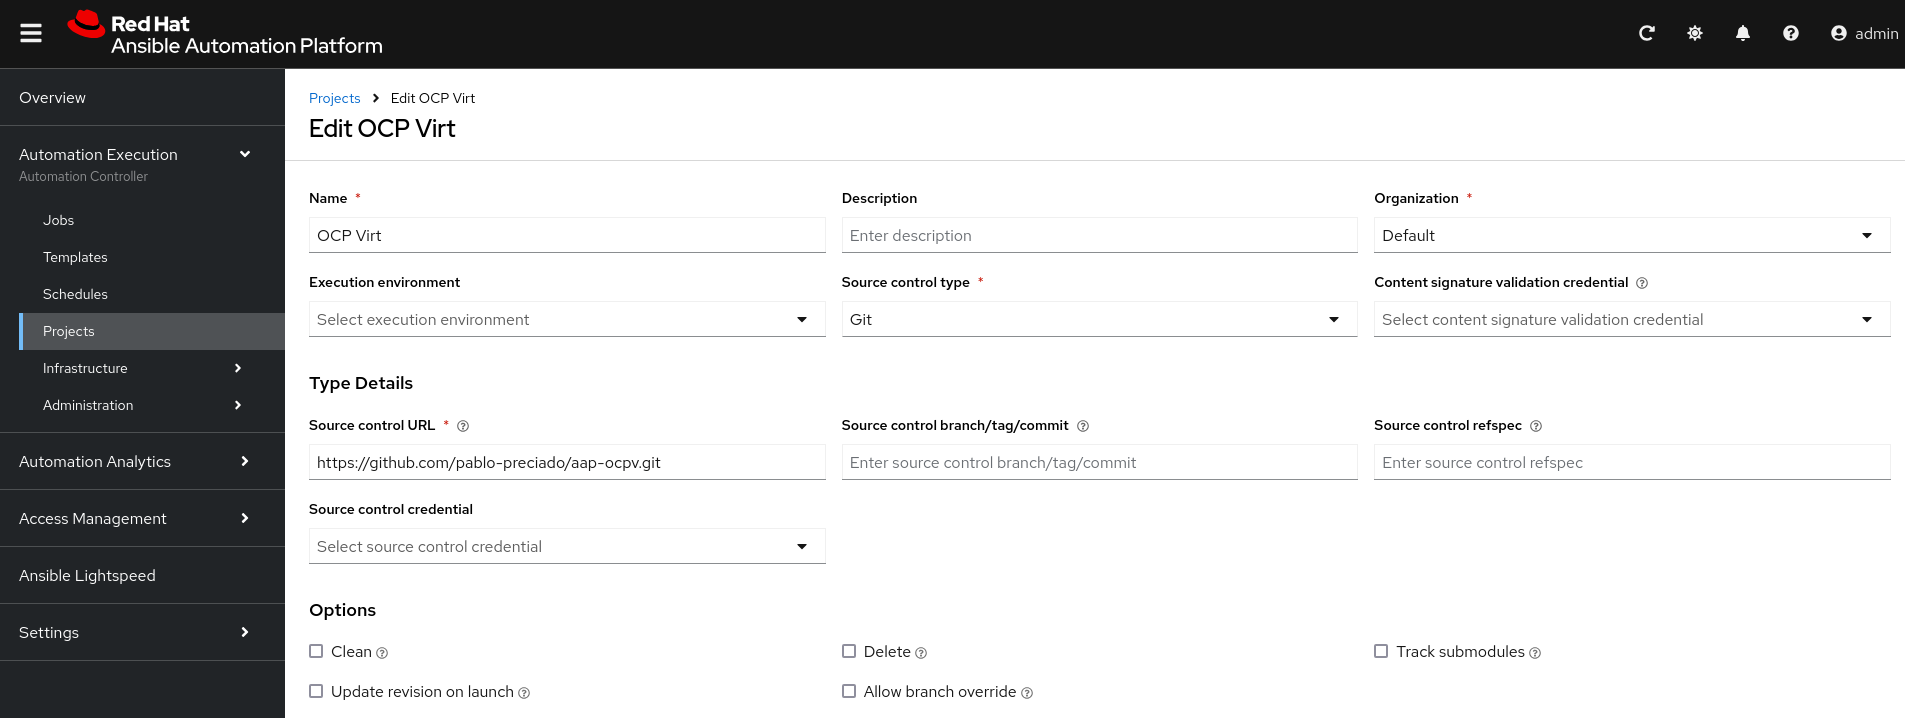
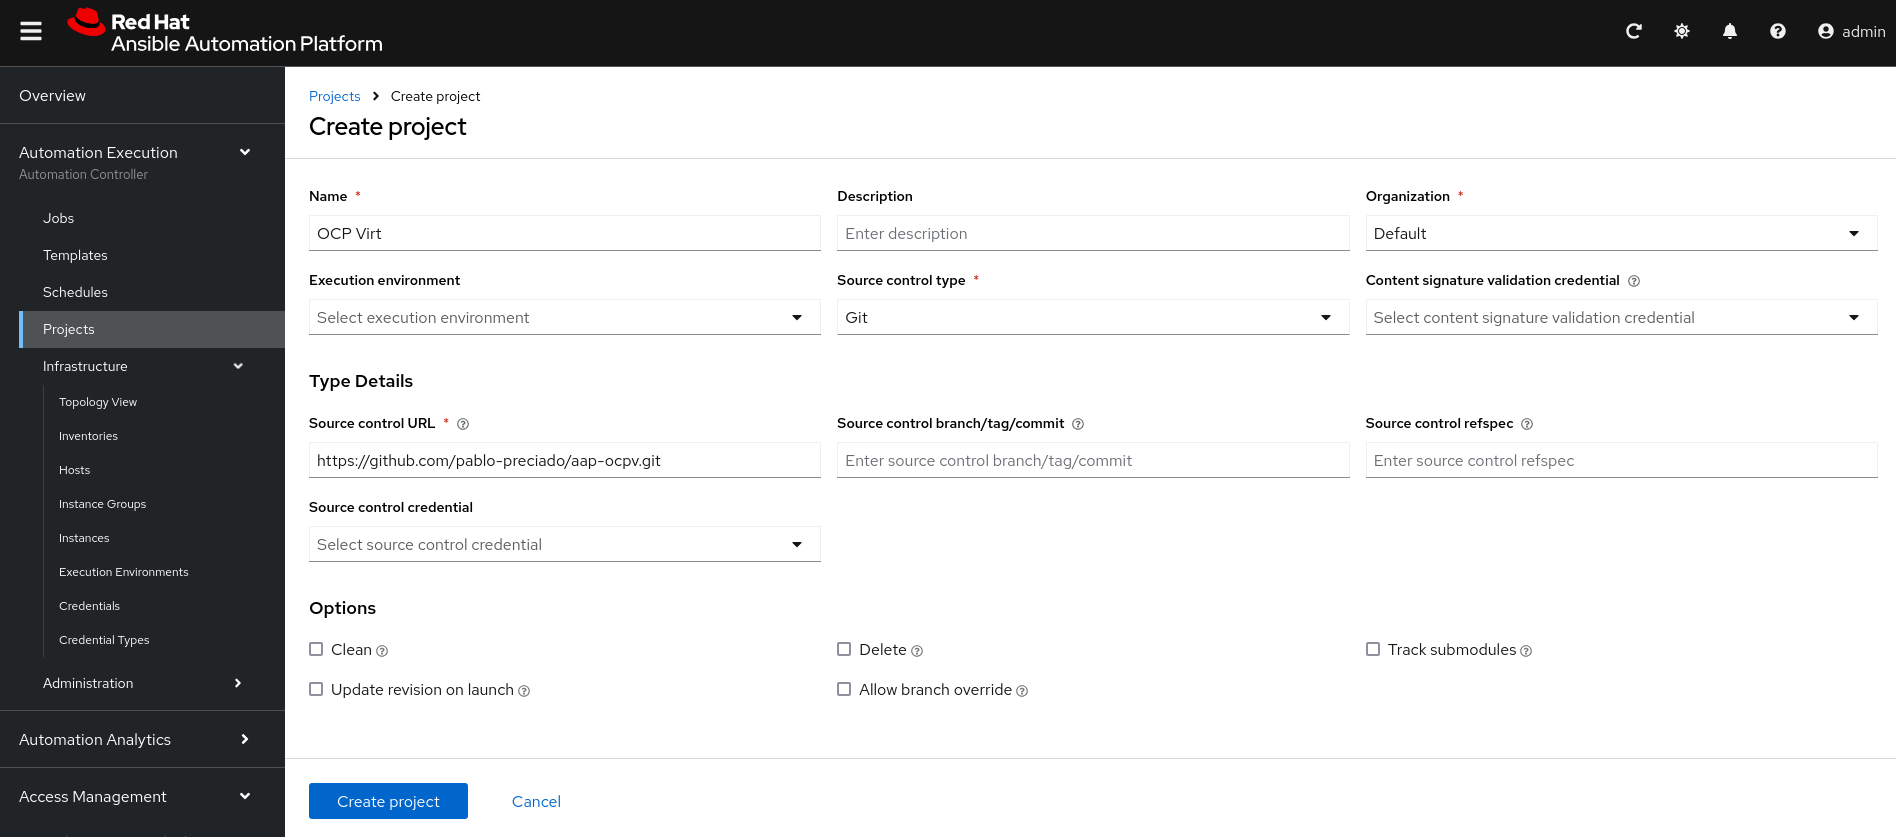
Updated structure and readme

diff --git a/README.md b/README.md
@@ -8,6 +8,92 @@ You need an OpenShift cluster with OpenShift Virtualization capabilities. If you
 
 ## Prepare your cluster
 
+Install OpenShift Gitops operator via Operator Hub. Use the default installation.
+
+Once installed add the application set in this repo (/gitops/applications/demo-application-set.yaml). Click on the "+" sign on the top right of the GUI:
+
+![Create application set](images/create-application-set.png)
+
+Then select the project openshift-gitops and copy paste the content of the file /gitops/applications/demo-application-set.yaml of this repo in the GUI:
+
+![Create application set yaml](images/application-set-yaml.png)
+
+This will install the OpenShift Virtualization and Ansible Automation Platform operators. It will also deploy our instance of Ansible Automation Platform in the namespace aap.
+
+Wait until all CRD's are installed, then go to the aap namespace and search for the my-aap route and the secret my-aap-admin-password. You can obtain both values by running these commands:
+
+```
+oc get route my-aap -n aap -o jsonpath='{.spec.host}'
+```
+```
+oc get secret my-aap-admin-password -n aap -o go-template --template="{{.data.password|base64decode}}"
+```
+
+In your browser navigate to the url of the my-aap route and login with user admin and the password you extracted from the secret.
+On your first login you need to add your subscription, you can upload a manifest or use your Red Hat Network username and password. Add your subscription and accept the EULA:
+
+![Add AAP subscription](images/aap-subscription.png)
+
+Now go to Red Hat's Automation Hub and get a token so your Automation Controller can install official Red Hat collections. Login to [Ansible automation hub](https://console.redhat.com/ansible/automation-hub). Navigate to "Automation Hub" -> "Connect to Hub" and click "Load Token" under "Offline Token" to generate a token. Copy down the token, server URL, and SSO URL.
+
+Now, in your Automation Controller, go to Automation Execution > Infrastructure > Credentials > Create Credential.
+
+Fill the new credential with the following values:
+ - Name: Red Hat Automation Hub
+ - Organization: Default
+ - Credential type: Ansible Galaxy/Automation Hub API Token
+ - Galaxy Server URL: the Server URL you got from previour step
+ - Auth server URL: the SSO URL you got from previour step
+ - API Token: the one you got from previour step
+
+![AAP Atomation Hub Credential](images/automation-hub-credential.png)
+
+Once you have created the credential go to Access Management > Organizations > Default > Edit organization. In the credentials section of the organization add the newly created organization, then uncheck and check again the "Ansible Galaxy" credentials (this is needed so the organization uses first the manually created credentials).
+
+ ![AAP Default organization](images/default-organization.png)
+
+Create a project in Automation Execution > Projects > Create project with the following values:
+ - Name: OCP Virt
+ - Organization: Default
+ - Source Control Type: Git
+ - Source Control URL: https://github.com/pablo-preciado/aap-ocpv.git
+
+ ![AAP project](images/aap-project.png)
+
+Remember to sync the project before continuing.
+
+Before configuring your job template you'll need to gather you OpenShift cluster API url and token, and you will also need to retrieve Red Hat Network client id and client secret.
+
+To obtain OpenShift API url and token you can run these commands:
+```
+oc cluster-info
+oc whoami --show-token
+```
+To obtain the data of your Service Account use a browser to navigate to [Red Hat Cloud Console](https://console.redhat.com/application-services/service-accounts). Click on Create service account and save your Client ID and Client Secret.
+
+Now create the Job Template for configuring the Ansible Automation Controller. Go to Automation Execution > Templates > Create Template > Create Job Template. Fill with the following information:
+ - Name: Configure controller
+ - Inventory: Demo Inventory
+ - Project: OCP Virt
+ - Playbook: playbooks/controller-configuration.yml
+ - Extra variables: copy paste the following code but using the values you just retrieved.
+```
+my_controller_fqdn: your-aap-url.com
+my_controller_user: admin
+my_controller_pass: your-aap-password
+openshift_api_url: your-ocp-api-url
+openshift_api_token: your-ocp-api-token
+rhn_username: your-red-hat-cdn-username
+rhn_password: your-red-hat-cdn-password
+rhn_client_id: your-red-hat-cdn-client-id
+rhn_client_secret: your-red-hat-cdn-client-secret
+```
+
+![AAP Create job template](images/controller-configuration-template.png)
+
+Run the job template.
+___________________________________________________________________________________
+
 Install OpenShift Virtualization and Ansible Automation Platform operators.
 
 Once both operators are installed deploy an instance of hyperconverge object and one AAP instance.
